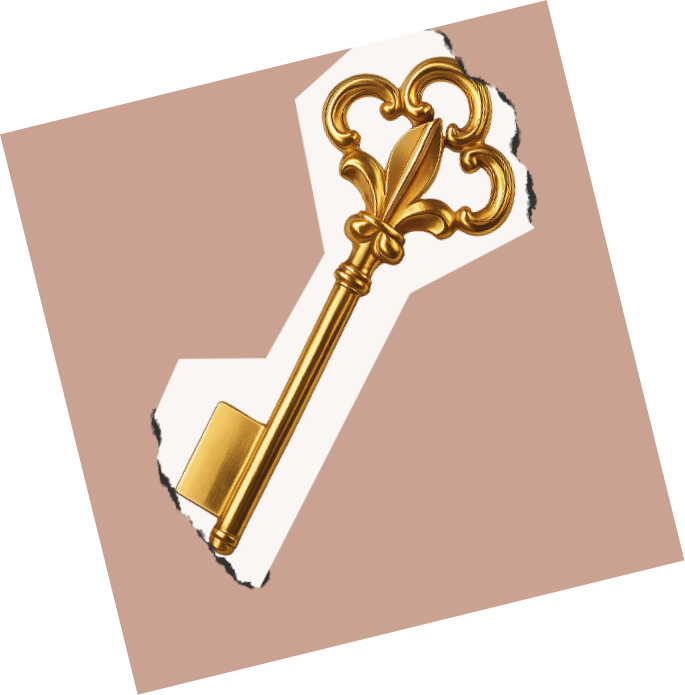
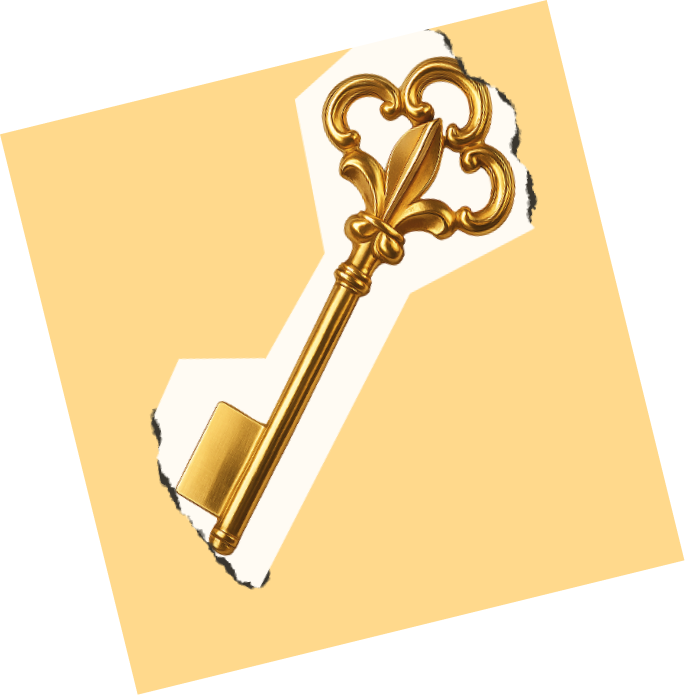
수정

diff --git a/portfolio/main/css/main_style.css b/portfolio/main/css/main_style.css
@@ -425,6 +425,9 @@ Profile Section Layout
   left: 100px;
   top: 1850px;
 }
+.project .inner .con ul li:nth-child(5):hover{
+  transform: scale(1.05);
+}
 
 /* TEXT SPAN POSITIONING */
 .project .inner .con ul li span {
